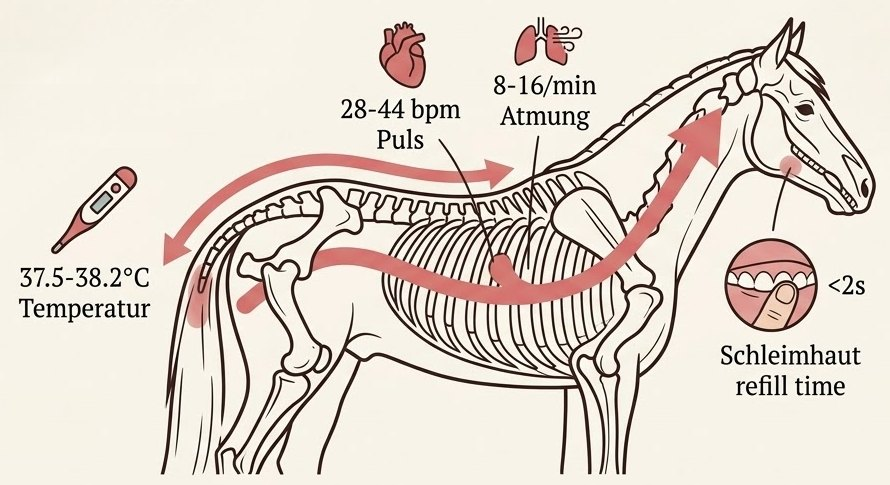
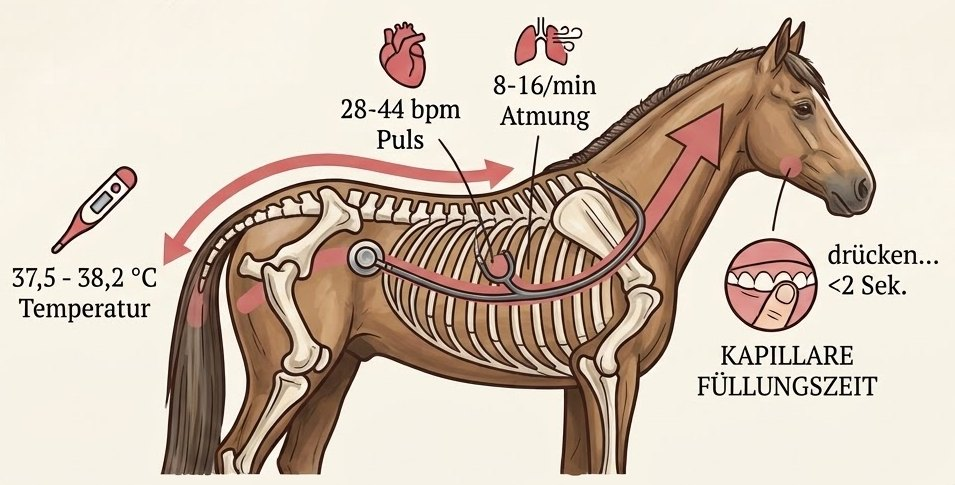
Gesundheit: deutsches Bild (Kapillare Fuellungszeit), Titel abgeschnitten (zzz113)
Claude-Session: https://claude.ai/code/session_01SR1idWMnWkNXtA4vLe1vF6

diff --git a/index.html b/index.html
@@ -27,7 +27,7 @@
 .ohrfig .ohrcap{margin:0;font-size:12px;color:var(--muted)}
 </style>
 </head><body>
-<meta name="app-version" content="2026-11-07zzz112"><script id="start-top">(function(){try{if("scrollRestoration" in history)history.scrollRestoration="manual";var K="start-seen",LIM=5000,base=location.pathname+location.search;function get(){try{return +sessionStorage.getItem(K)||0}catch(e){return 0}}function put(){try{sessionStorage.setItem(K,String(Date.now()))}catch(e){}}function stale(){var p=get();return p&&Date.now()-p>LIM}function reset(){try{sessionStorage.removeItem(K)}catch(e){}location.replace(base)}if(stale()&&location.hash){reset();return}put();function back(){if(stale())reset();else put()}setInterval(function(){if(document.visibilityState==="visible")put()},3000);document.addEventListener("visibilitychange",function(){if(document.visibilityState==="hidden")put();else back()});addEventListener("pageshow",function(e){if(e.persisted)location.reload();else back()});addEventListener("focus",back);document.addEventListener("resume",back);addEventListener("pagehide",put);}catch(e){}})();</script>
+<meta name="app-version" content="2026-11-07zzz113"><script id="start-top">(function(){try{if("scrollRestoration" in history)history.scrollRestoration="manual";var K="start-seen",LIM=5000,base=location.pathname+location.search;function get(){try{return +sessionStorage.getItem(K)||0}catch(e){return 0}}function put(){try{sessionStorage.setItem(K,String(Date.now()))}catch(e){}}function stale(){var p=get();return p&&Date.now()-p>LIM}function reset(){try{sessionStorage.removeItem(K)}catch(e){}location.replace(base)}if(stale()&&location.hash){reset();return}put();function back(){if(stale())reset();else put()}setInterval(function(){if(document.visibilityState==="visible")put()},3000);document.addEventListener("visibilitychange",function(){if(document.visibilityState==="hidden")put();else back()});addEventListener("pageshow",function(e){if(e.persisted)location.reload();else back()});addEventListener("focus",back);document.addEventListener("resume",back);addEventListener("pagehide",put);}catch(e){}})();</script>
 <link rel="stylesheet" href="https://fonts.googleapis.com/css2?family=Source+Sans+3:wght@400;600;700&display=swap">
 <style>
 /* Layout: full-screen app column — logo + title, mode switch, arena that fills the free height, controls pinned below */
@@ -1046,7 +1046,7 @@ const BL=[
   ['Scharren & Stampfen','Ungeduld, Langeweile oder Ärger.']]}
 ];
 const OHR=[['img/koerper_ohren_1.jpg','Pferdekopf mit nach vorn gerichteten Ohren'],['img/koerper_ohren_2.jpg','Pferdekopf mit seitlich gestellten Ohren'],['img/koerper_ohren_3.jpg','Pferdekopf mit eng angelegten Ohren']];
-function gesBild(card){const f=document.createElement('div');f.className='ohrfig';const i=document.createElement('img');i.src='img/gesundheit_check.jpg';i.alt='Pferdeskelett mit den Normalwerten in Ruhe: Puls, Atmung, Temperatur und Schleimhaut';i.loading='lazy';i.width=890;i.height=485;f.appendChild(i);
+function gesBild(card){const f=document.createElement('div');f.className='ohrfig';const i=document.createElement('img');i.src='img/gesundheit_check.jpg';i.alt='Pferdeskelett mit den Normalwerten in Ruhe: Puls, Atmung, Temperatur und Schleimhaut';i.loading='lazy';i.width=955;i.height=485;f.appendChild(i);
  const c=document.createElement('p');c.className='tline ohrcap';c.textContent='Bild: KI-generiert (Gemini) im Auftrag von Steuart Harrison, frei verwendbar. Die Werte stehen auch im Text unten.';f.appendChild(c);card.insertBefore(f,card.children[1]);}
 function ohrenBilder(card){const f=document.createElement('div');f.className='ohrfig';OHR.forEach(([u,a])=>{const i=document.createElement('img');i.src=u;i.alt=a;i.loading='lazy';i.width=440;i.height=460;f.appendChild(i);});
  const c=document.createElement('p');c.className='tline ohrcap';c.textContent='Bild: KI-generiert (Gemini) im Auftrag von Steuart Harrison, frei verwendbar.';f.appendChild(c);card.insertBefore(f,card.children[1]);}
@@ -1635,7 +1635,7 @@ GAL.reverse();/* neueste zuerst: neue Eintraege ans Ende der Liste schreiben */
   ['thsGe','Ge','Gesundheit','Puls, Atmung, Temperatur, Kolik: normal oder Tierarzt?']].forEach(([id,c,n,d])=>{
   const b=document.createElement('button');b.className='tile ready wrow';
   b.innerHTML='<span class="code"></span><span><div class="nm"></div><div class="ds"></div></span><span class="st ready">Öffnen</span>';
-  b.querySelector('.code').textContent=c;{const KB={thsV:'img/kreis_sehen.jpg',thsA:'img/skelett.jpg',thsB:'img/viereck_real.svg',thsK:'img/koerper_ohren_1.jpg',thsS:'img/situationen_icon.jpg',thsGe:'img/gesundheit_check.jpg',thsP:'img/kreis_pferde.jpg'}[id];const CR={thsA:'#fff url(img/skelett.jpg) 0% 4%/300% no-repeat',thsB:'#fff url(img/viereck_real.svg) 22% 58%/185% no-repeat',thsK:'#fff url(img/koerper_ohren_1.jpg) 52% 16%/289% no-repeat',thsS:'#fff url(img/situationen_icon.jpg) center/cover no-repeat',thsGe:'#fff url(img/gesundheit_check.jpg) 48% 22%/202% no-repeat',thsV:'#fff url(img/sehen_real.svg) 50% 50%/118% no-repeat'}[id];if(KB){const cd=b.querySelector('.code');cd.textContent='';cd.setAttribute('role','img');cd.setAttribute('aria-label',n);cd.style.setProperty('background',CR||('#fff url('+KB+') center/cover no-repeat'),'important');}}/* kreisbild */b.querySelector('.nm').textContent=n;b.querySelector('.ds').textContent=d;
+  b.querySelector('.code').textContent=c;{const KB={thsV:'img/kreis_sehen.jpg',thsA:'img/skelett.jpg',thsB:'img/viereck_real.svg',thsK:'img/koerper_ohren_1.jpg',thsS:'img/situationen_icon.jpg',thsGe:'img/gesundheit_check.jpg',thsP:'img/kreis_pferde.jpg'}[id];const CR={thsA:'#fff url(img/skelett.jpg) 0% 4%/300% no-repeat',thsB:'#fff url(img/viereck_real.svg) 22% 58%/185% no-repeat',thsK:'#fff url(img/koerper_ohren_1.jpg) 52% 16%/289% no-repeat',thsS:'#fff url(img/situationen_icon.jpg) center/cover no-repeat',thsGe:'#fff url(img/gesundheit_check.jpg) 42% 22%/217% no-repeat',thsV:'#fff url(img/sehen_real.svg) 50% 50%/118% no-repeat'}[id];if(KB){const cd=b.querySelector('.code');cd.textContent='';cd.setAttribute('role','img');cd.setAttribute('aria-label',n);cd.style.setProperty('background',CR||('#fff url('+KB+') center/cover no-repeat'),'important');}}/* kreisbild */b.querySelector('.nm').textContent=n;b.querySelector('.ds').textContent=d;
   b.onclick=()=>{openWissen();setTimeout(()=>$(id).click(),0);};PW.appendChild(b);});
  {const ln=document.createElement('p');ln.className='tline intro';const w=document.createElement('span');w.className='inter';w.textContent='interaktiv';{const d=document.createElement('i');d.className='idot';w.prepend(d);}ln.append(w,' Tippe auf Bilder, Punkte und Quiz.');PW.insertBefore(ln,PW.querySelector('.tile'));}
  /* 03 Geschichte & Zitate */

diff --git a/src/gesundheit_bild_patch.py b/src/gesundheit_bild_patch.py
@@ -8,11 +8,11 @@ def rep(old,new):
     s=s.replace(old,new,1)
 i=s.index("card.appendChild(dl);};",s.index("const fill=i=>{const b=GE[i]"))
 s=s[:i]+"card.appendChild(dl);if(b.k==='Normalwerte')gesBild(card);};"+s[i+len("card.appendChild(dl);};"):]
-rep("function ohrenBilder(card){",r"""function gesBild(card){const f=document.createElement('div');f.className='ohrfig';const i=document.createElement('img');i.src='img/gesundheit_check.jpg';i.alt='Pferdeskelett mit den Normalwerten in Ruhe: Puls, Atmung, Temperatur und Schleimhaut';i.loading='lazy';i.width=890;i.height=485;f.appendChild(i);
+rep("function ohrenBilder(card){",r"""function gesBild(card){const f=document.createElement('div');f.className='ohrfig';const i=document.createElement('img');i.src='img/gesundheit_check.jpg';i.alt='Pferdeskelett mit den Normalwerten in Ruhe: Puls, Atmung, Temperatur und Schleimhaut';i.loading='lazy';i.width=955;i.height=485;f.appendChild(i);
  const c=document.createElement('p');c.className='tline ohrcap';c.textContent='Bild: KI-generiert (Gemini) im Auftrag von Steuart Harrison, frei verwendbar. Die Werte stehen auch im Text unten.';f.appendChild(c);card.insertBefore(f,card.children[1]);}
 function ohrenBilder(card){""")
 rep("thsS:'img/situationen_icon.jpg',","thsS:'img/situationen_icon.jpg',thsGe:'img/gesundheit_check.jpg',")
-rep("thsS:'#fff url(img/situationen_icon.jpg) center/cover no-repeat',","thsS:'#fff url(img/situationen_icon.jpg) center/cover no-repeat',thsGe:'#fff url(img/gesundheit_check.jpg) 48% 22%/202% no-repeat',")
+rep("thsS:'#fff url(img/situationen_icon.jpg) center/cover no-repeat',","thsS:'#fff url(img/situationen_icon.jpg) center/cover no-repeat',thsGe:'#fff url(img/gesundheit_check.jpg) 42% 22%/217% no-repeat',")
 if '--noversion' not in sys.argv:
     s=re.sub(r'(<meta name="app-version" content=")([^"]*)(")',lambda m:m.group(1)+'2026-11-07zzz111'+m.group(3),s,count=1)
 open('index.html','w',encoding='utf-8').write(s)
